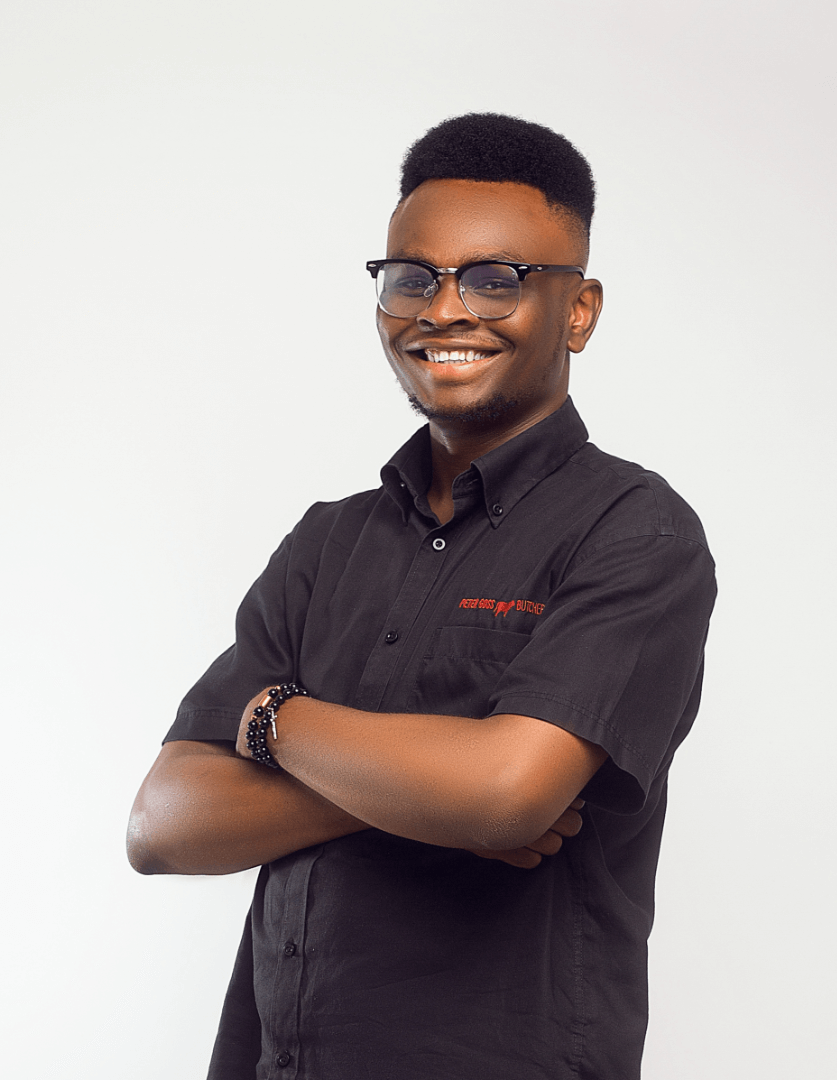
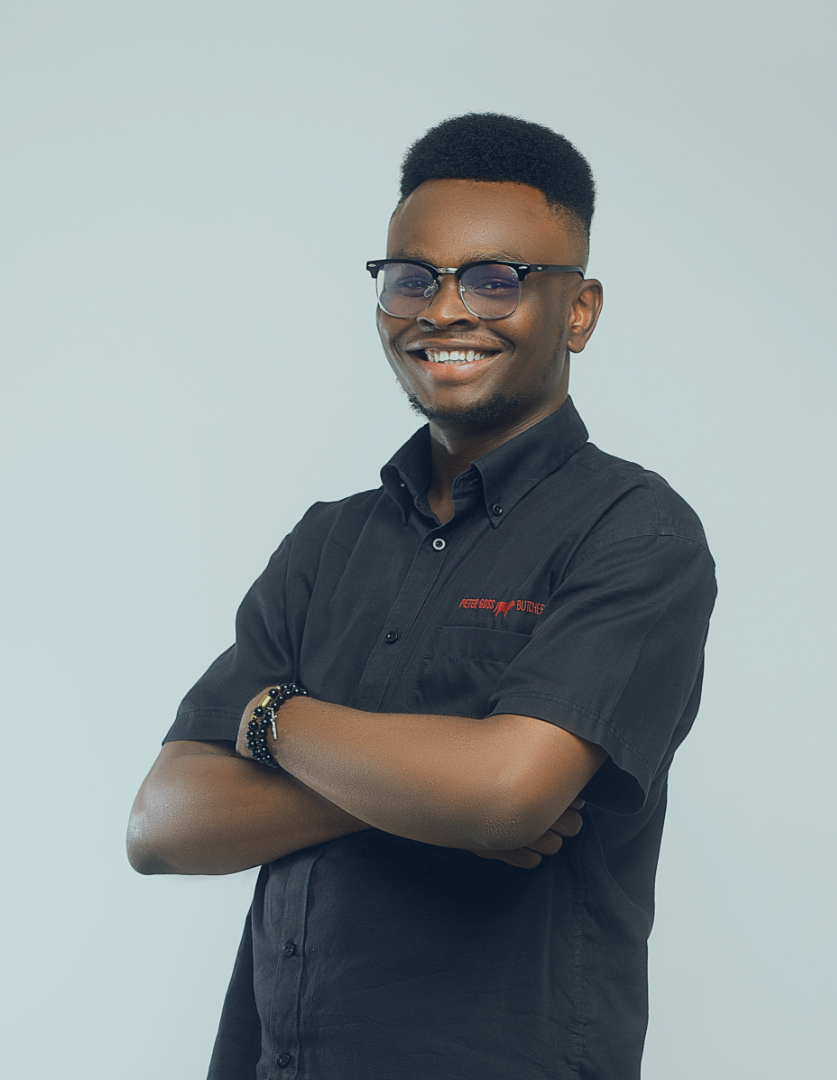
update

diff --git a/index.html b/index.html
@@ -67,7 +67,7 @@
 
                 <div class="image-holder">
                     <img src="assets/images/jon.png" alt="">
-                    <div class="overlay overlay-relative"></div>
+<!--                    <div class="overlay overlay-relative"></div>-->
                 </div>
             </div>
         </div>
